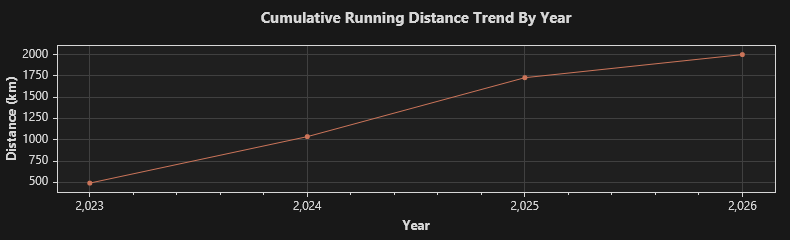
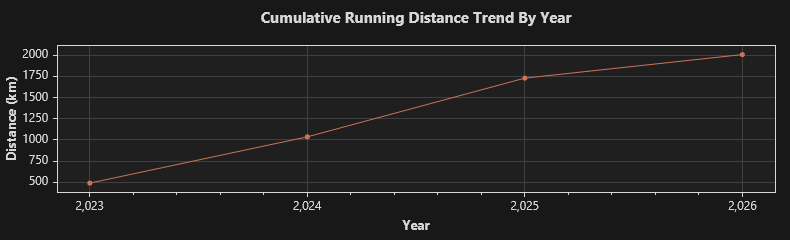
2026/6/8 跑步 6.12 公里

diff --git a/trend.md b/trend.md
@@ -1,4 +1,4 @@
-### Total: 341 days, 2000.11 km.
+### Total: 342 days, 2006.23 km.
 
 
 ![Monthly](https://github.com/prime167/MyRunningLog/blob/main/data/CumulativeTrendByMonth.png)